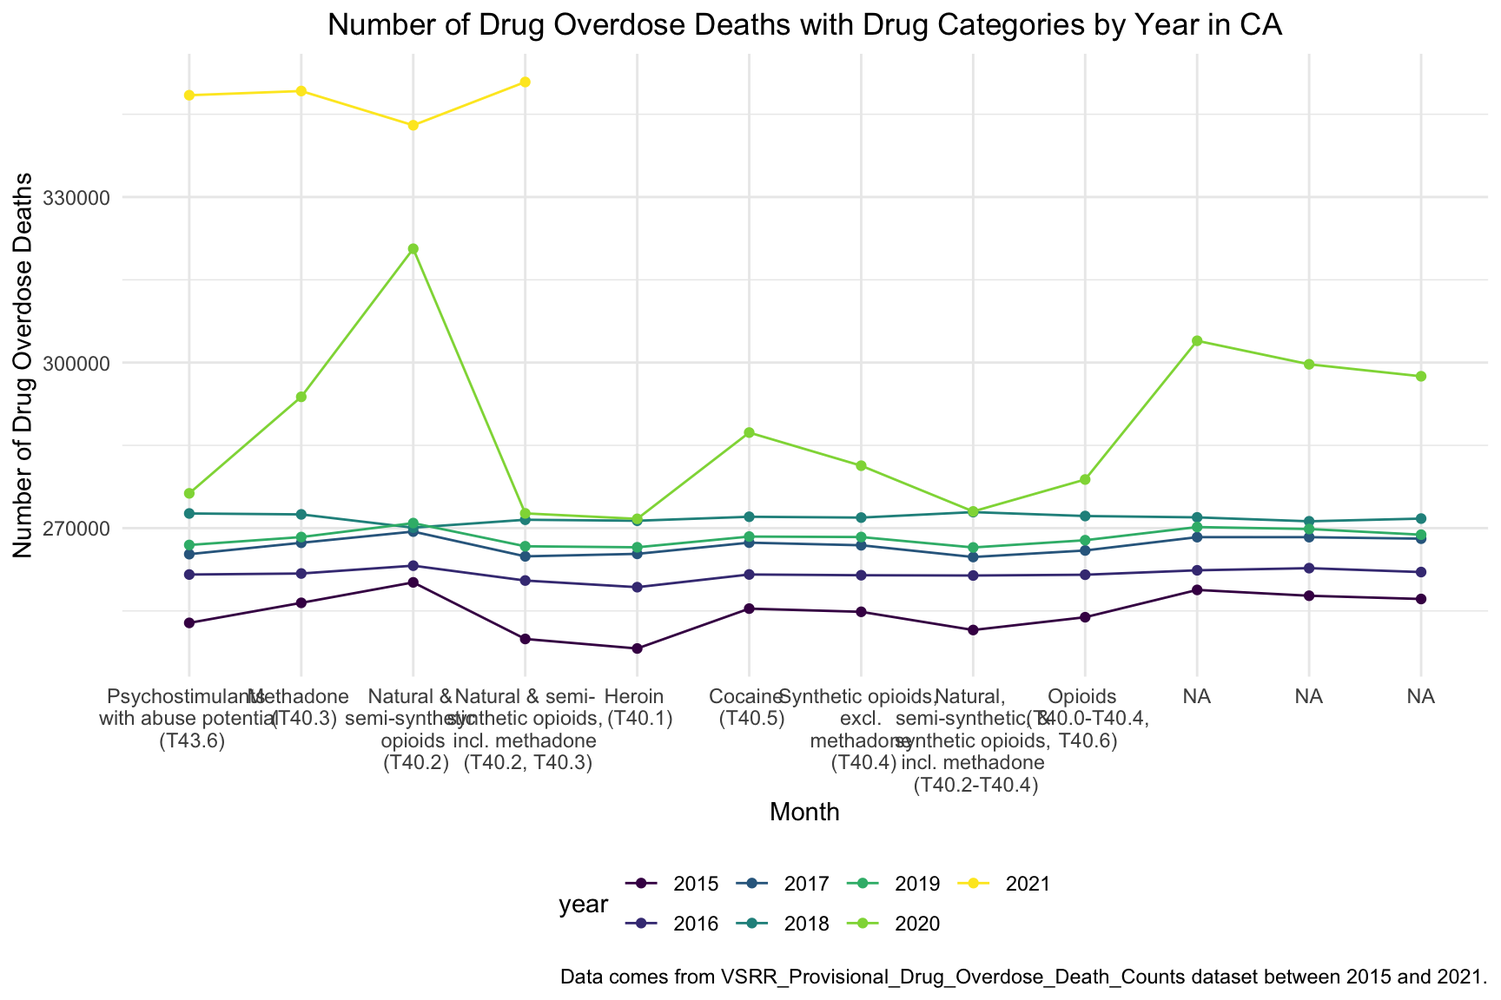
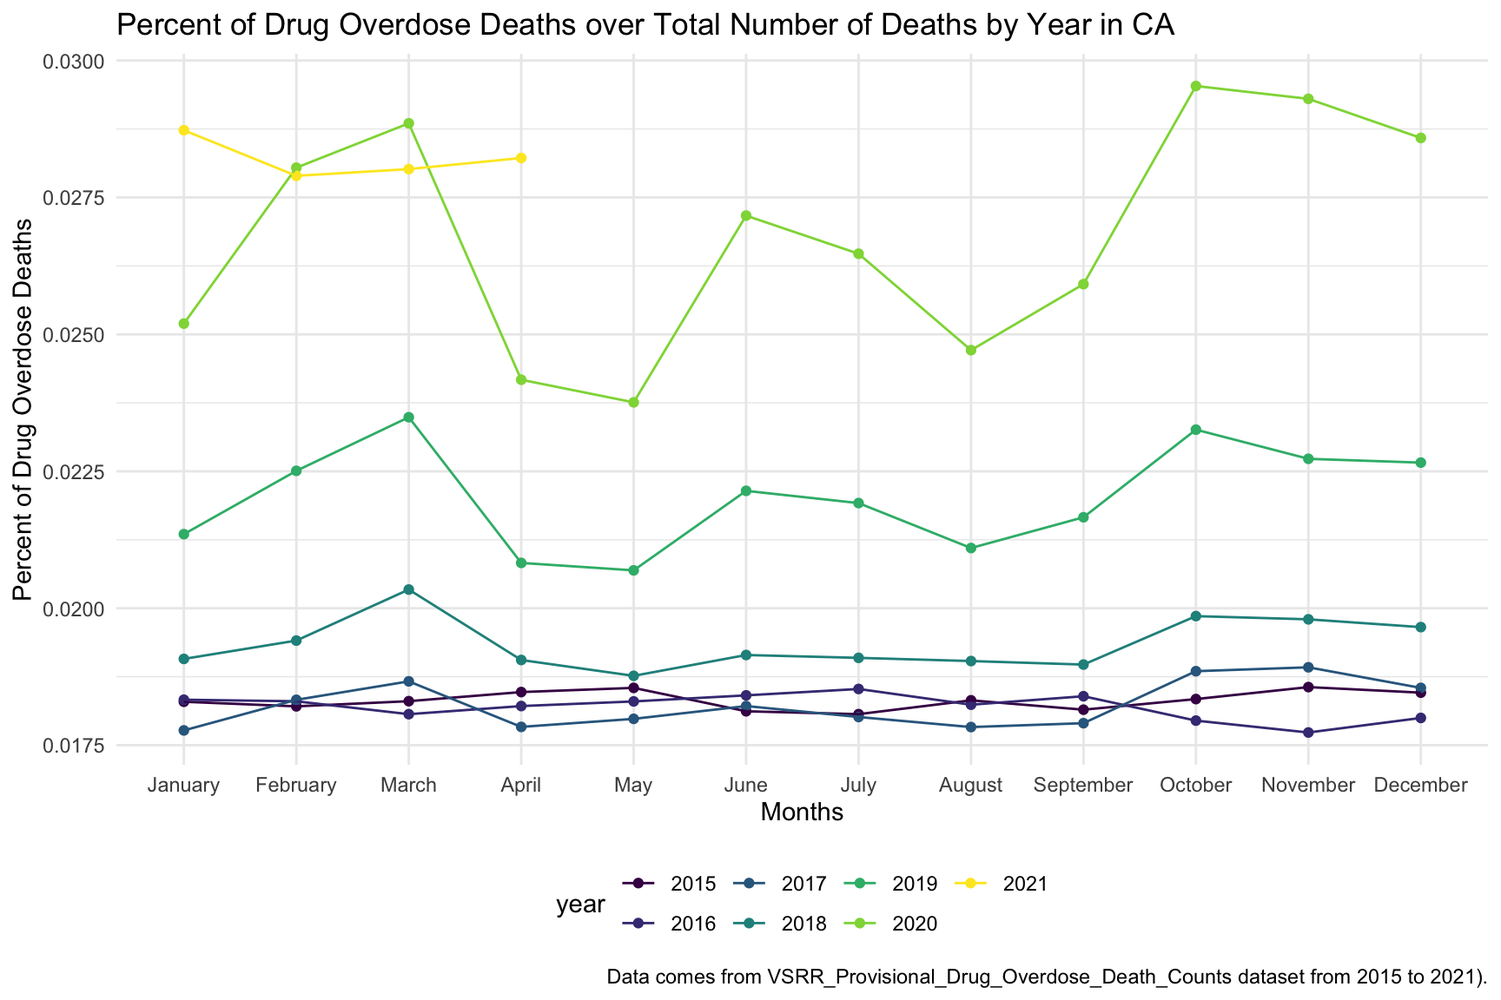
changing by year graph to percentage death and add interpertation

diff --git a/CA_data_analyzing.html b/CA_data_analyzing.html
@@ -13,8 +13,8 @@
 
 <title>CA data Analyzing</title>
 
-<script src="site_libs/header-attrs-2.11/header-attrs.js"></script>
-<script src="site_libs/jquery-3.6.0/jquery-3.6.0.min.js"></script>
+<script src="site_libs/header-attrs-2.10/header-attrs.js"></script>
+<script src="site_libs/jquery-3.5.1/jquery.min.js"></script>
 <meta name="viewport" content="width=device-width, initial-scale=1" />
 <link href="site_libs/bootstrap-3.3.5/css/yeti.min.css" rel="stylesheet" />
 <script src="site_libs/bootstrap-3.3.5/js/bootstrap.min.js"></script>
@@ -415,18 +415,7 @@ div.tocify {
 </div>
 
 
-<p><strong>Import the libraries</strong></p>
-<pre class="r"><code>library(tidyverse)
-library(rvest)
-library(httr)
-library(viridis)
-library(plotly)
-library(dplyr)
-library(readr)
-library(maps)
-library(choroplethr)
-library(choroplethrMaps)
-library(patchwork)</code></pre>
+<p><strong>Import the Libraries and Data Cleaning</strong></p>
 <pre class="r"><code>drug_overdose = read_csv(&quot;./data/VSRR_Provisional_Drug_Overdose_Death_Counts.csv&quot;) %&gt;% 
   janitor::clean_names()
 
@@ -453,9 +442,8 @@ drug_categories =
   ungroup() %&gt;% 
   select(-c(state, footnote_symbol, percent_complete, period, percent_pending_investigation, footnote, predicted_value)) %&gt;% 
   filter(str_detect(indicator, &quot;T4&quot;))</code></pre>
-<div id="overall-review" class="section level3">
-<h3>Overall review:</h3>
-<p><strong>Drug Overdose Deaths with Drug Categories</strong></p>
+<div id="by-drug-type" class="section level2">
+<h2>By Drug Type</h2>
 <pre class="r"><code>CA_death = 
   drug_overdose_52 %&gt;% 
   filter(state_name %in% &quot;California&quot;,
@@ -476,7 +464,7 @@ CA_df =
   drug_categories %&gt;% 
   filter(state_name %in% c(&quot;California&quot;))
 ggplot(CA_df, aes(indicator, data_value))+ 
-  geom_boxplot() +
+  geom_boxplot(aes(fill = indicator), alpha = 0.5) +
   scale_x_discrete(labels = c(&quot;Psychostimulants \n with abuse potential \n (T43.6)&quot;, &quot;Methadone \n (T40.3)&quot;, &quot;Natural &amp; \n semi-synthetic  \n opioids \n (T40.2)&quot;, &quot;Natural &amp; semi-\n synthetic opioids, \n incl. methadone \n (T40.2, T40.3)&quot;, &quot;Heroin \n (T40.1)&quot;, &quot;Cocaine \n (T40.5)&quot;, &quot;Synthetic opioids, \n excl. \n methadone \n (T40.4)&quot;, &quot;Natural, \n semi-synthetic, &amp; \n synthetic opioids, \n incl. methadone \n (T40.2-T40.4)&quot;, &quot;Opioids \n (T40.0-T40.4,\n T40.6)&quot;)) +
   guides(fill = guide_legend(nrow = 6, byrow = TRUE)) +
   labs(
@@ -486,27 +474,39 @@ ggplot(CA_df, aes(indicator, data_value))+
     caption = &quot;Data comes from VSRR_Provisional_Drug_Overdose_Death_Counts dataset.&quot;
   ) </code></pre>
 <p><img src="CA_data_analyzing_files/figure-html/unnamed-chunk-3-1.png" width="90%" /></p>
-<p><strong>Drug Overdose Deaths with Drug Categories by Year</strong></p>
+<p>From this graph we can see that highest drug overdose death is caused by Synthetic opioids,methadone (T40.4). The following Drug Categories cause high overdose death are Cocaine and semi-synthetic opioids.</p>
+</div>
+<div id="by-year" class="section level2">
+<h2>By Year</h2>
 <pre class="r"><code>death_by_year = 
-  drug_overdose_death %&gt;% 
-  filter(state_name %in% c(&quot;California&quot;), 
-         indicator %in% c(&quot;Number of Deaths&quot;) )
+  drug_overdose_52 %&gt;% 
+  filter(state_name %in% c(&quot;California&quot;)) %&gt;% 
+  ungroup() %&gt;% 
+  select(year, month, indicator, data_value) %&gt;% 
+  filter(indicator %in% c(&quot;Number of Deaths&quot;, &quot;Number of Drug Overdose Deaths&quot;)) %&gt;% 
+  pivot_wider(
+    names_from = indicator,
+    values_from = data_value
+  ) %&gt;% 
+  janitor::clean_names() %&gt;% 
+  group_by(year, month) %&gt;% 
+  mutate(
+    percent_overdose_death = number_of_drug_overdose_deaths / number_of_deaths
+  )
 
-ggplot(death_by_year, aes(x = month, y = data_value, group = year, color = year)) +
-    labs(title = &quot;&quot;) + 
-    geom_line() + 
-    geom_point() +
-    theme(plot.title = element_text(hjust = 0.5)) +
-    scale_x_discrete(labels = c(&quot;Psychostimulants \n with abuse potential \n (T43.6)&quot;, &quot;Methadone \n (T40.3)&quot;, &quot;Natural &amp; \n semi-synthetic  \n opioids \n (T40.2)&quot;, &quot;Natural &amp; semi-\n synthetic opioids, \n incl. methadone \n (T40.2, T40.3)&quot;, &quot;Heroin \n (T40.1)&quot;, &quot;Cocaine \n (T40.5)&quot;, &quot;Synthetic opioids, \n excl. \n methadone \n (T40.4)&quot;, &quot;Natural, \n semi-synthetic, &amp; \n synthetic opioids, \n incl. methadone \n (T40.2-T40.4)&quot;, &quot;Opioids \n (T40.0-T40.4,\n T40.6)&quot;)) +
-  guides(fill = guide_legend(nrow = 6, byrow = TRUE)) +
-    labs(
-      title = &quot;Number of Drug Overdose Deaths with Drug Categories by Year in CA&quot;,
-      x = &quot;Month&quot;,
-      y = &quot;Number of Drug Overdose Deaths&quot;,
-    caption = &quot;Data comes from VSRR_Provisional_Drug_Overdose_Death_Counts dataset between 2015 and 2021.&quot;
+death_by_year %&gt;%
+  ungroup() %&gt;% 
+  ggplot(aes(x = month, y = percent_overdose_death, color = year)) +
+  geom_point() +
+  geom_line(aes(group = year)) +
+  labs(
+    title = &quot;Percent of Drug Overdose Deaths over Total Number of Deaths by Year in CA&quot;,
+    x = &quot;Months&quot;,
+    y = &quot;Percent of Drug Overdose Deaths&quot;,
+    caption = &quot;Data comes from VSRR_Provisional_Drug_Overdose_Death_Counts dataset from 2015 to 2021).&quot;
   )</code></pre>
-<p><img src="CA_data_analyzing_files/figure-html/unnamed-chunk-4-1.png" width="90%" /></p>
-<p><strong>Each month Death Within a Year</strong></p>
+<p><img src="CA_data_analyzing_files/figure-html/unnamed-chunk-4-1.png" width="100%" /></p>
+<p>In the graph of Drug Overdose Deaths with Drug Categories by Year, I can observe that year 2020 have higher number of drug overdose death than other years, which can be cause by covid-19 and self-isolation.</p>
 <pre class="r"><code>death_by_year = 
   drug_overdose_death %&gt;% 
   filter(state_name %in% c(&quot;California&quot;), 
@@ -519,26 +519,30 @@ ggplot(death_by_year, aes(x = month, y = data_value, group = year, color = year)
     facet_grid(.~year) +
   
     labs(
-      title = &quot;Number of Drug Overdose Deaths with Drug Categories by Year in CA&quot;,
+      title = &quot;Percent of Number of Drug Overdose Deaths with Drug Categories by Year in CA&quot;,
       x = &quot;Month&quot;,
-      y = &quot;Number of Drug Overdose Deaths&quot;,
+      y = &quot;Percent of Drug Overdose Deaths&quot;,
     caption = &quot;Data comes from VSRR_Provisional_Drug_Overdose_Death_Counts dataset between 2015 and 2021.&quot;
   ) +
     theme(axis.text.x = element_text(angle = 90, hjust = 1)) </code></pre>
 <p><img src="CA_data_analyzing_files/figure-html/unnamed-chunk-5-1.png" width="90%" /></p>
+<p>In the graph of Each month Drug Overdose Death Within a Year, we are able to see the increasing trend of drug overdose in continuous years. Cause by the COVID-19, there is large increase in number of drug overdose death.</p>
+</div>
+<div id="drug-year" class="section level2">
+<h2>Drug ~ Year</h2>
 <pre class="r"><code>CA_df %&gt;%
   filter(year %in% (2019:2021))  %&gt;%
   ggplot(aes(x = year, y = data_value, color = indicator)) +
   geom_smooth(aes(group = indicator), se = FALSE) +
-  scale_color_viridis(discrete = TRUE, labels = c(&quot;Psychostimulants with abuse potential (T43.6)&quot;, &quot;Methadone (T40.3)&quot;, &quot;Natural &amp; semi-synthetic opioids (T40.2)&quot;, &quot;Natural &amp; semi-synthetic opioids, incl. methadone (T40.2, T40.3)&quot;, &quot;Heroin (T40.1)&quot;, &quot;Cocaine (T40.5)&quot;, &quot;Synthetic opioids, excl. methadone (T40.4)&quot;, &quot;Natural, semi-synthetic, &amp; synthetic opioids, incl. methadone (T40.2-T40.4)&quot;, &quot;Opioids (T40.0-T40.4,T40.6)&quot;)) +
   guides(color = guide_legend(nrow = 6, byrow = TRUE)) +
   labs(
-    title = &quot;Number of Drug Overdose Deaths with Drug Categories by Year in CA&quot;,
+    title = &quot;Number of Drug Overdose Deaths by Year in CA&quot;,
     x = &quot;Year&quot;,
     y = &quot;Number of Drug Overdose Deaths&quot;,
-    caption = &quot;Data comes from VSRR_Provisional_Drug_Overdose_Death_Counts dataset between 2015 and 2021.&quot;
+    caption = &quot;Data comes from VSRR_Provisional_Drug_Overdose_Death_Counts dataset between 2019 and 2021.&quot;
   )</code></pre>
 <p><img src="CA_data_analyzing_files/figure-html/unnamed-chunk-6-1.png" width="90%" /></p>
+<p>In the graph of Number of Drug Overdose Deaths with Drug Categories by Year, we can see that drug overdose death keep increasing over the years with almost all type of drug. Since we miss data from 2015-2018, so we just include 2019-2021 in this graph.</p>
 <p><strong>Overdose death by age</strong></p>
 <pre class="r"><code>ca_death_by_age = 
   read_csv(&quot;./data/agegroup_race_state_year_99-19.csv&quot;) %&gt;%
@@ -552,9 +556,12 @@ ca_death_by_age %&gt;%
   mutate(ten_year_age_groups = gsub(&quot;years&quot;, &quot;&quot;, ten_year_age_groups)) %&gt;% 
   ggplot(aes(x = ten_year_age_groups , y = crude_rate, fill = race)) + 
   geom_boxplot(alpha = 0.5)+
-  facet_grid(~race)+
+  facet_grid(~race) +
+  labs(
+    title = &quot;Number of Drug Overdose Deaths with Drug Categories by Age and Race in CA&quot;)  +
   theme(axis.text.x = element_text(angle = 90, vjust = 0.4, hjust = 1))</code></pre>
 <p><img src="CA_data_analyzing_files/figure-html/unnamed-chunk-7-1.png" width="90%" /></p>
+<p>Overdose death with Drug Categories by Age and Race shows that people among age 55-64 across all races have highest death rate. Black or African Americans have highest death rate among all races.</p>
 </div>
 <div id="income" class="section level2">
 <h2>Income</h2>
@@ -577,8 +584,9 @@ CA_income_df %&gt;%
     title = &quot;Median Household Income: CA vs. The U.S&quot;,
          xaxis = list(title = &quot;Year&quot;),
          yaxis = list(title = &quot;Median Household Income&quot;))</code></pre>
-<div id="htmlwidget-b78295737801767cc402" style="width:90%;height:576px;" class="plotly html-widget"></div>
-<script type="application/json" data-for="htmlwidget-b78295737801767cc402">{"x":{"visdat":{"83527259177c":["function () ","plotlyVisDat"]},"cur_data":"83527259177c","attrs":{"83527259177c":{"x":{},"y":{},"text":{},"mode":"markers+lines","error_y":{},"color":{},"colors":"viridis","alpha":0.5,"alpha_stroke":1,"sizes":[10,100],"spans":[1,20],"type":"scatter"}},"layout":{"margin":{"b":40,"l":60,"t":25,"r":10},"title":"Median Household Income: CA vs. The U.S","xaxis":{"domain":[0,1],"automargin":true,"title":"Year","type":"category","categoryorder":"array","categoryarray":["2015","2016","2017","2018","2019"]},"yaxis":{"domain":[0,1],"automargin":true,"title":"Median Household Income"},"hovermode":"closest","showlegend":true},"source":"A","config":{"modeBarButtonsToAdd":["hoverclosest","hovercompare"],"showSendToCloud":false},"data":[{"x":["2019","2018","2017","2016","2015"],"y":[80440,75277,71805,67739,64500],"text":["Year: 2019<br />Median Household Income: $80440<br />Margin of error: ± $313","Year: 2018<br />Median Household Income: $75277<br />Margin of error: ± $317","Year: 2017<br />Median Household Income: $71805<br />Margin of error: ± $294","Year: 2016<br />Median Household Income: $67739<br />Margin of error: ± $356","Year: 2015<br />Median Household Income: $64500<br />Margin of error: ± $395"],"mode":"markers+lines","error_y":{"color":"rgba(68,1,84,0.5)","array":[118,313,850,1028,1908]},"type":"scatter","name":"California","marker":{"color":"rgba(68,1,84,0.5)","line":{"color":"rgba(68,1,84,1)"}},"textfont":{"color":"rgba(68,1,84,0.5)"},"error_x":{"color":"rgba(68,1,84,0.5)"},"line":{"color":"rgba(68,1,84,0.5)"},"xaxis":"x","yaxis":"y","frame":null},{"x":["2019","2018","2017","2016","2015"],"y":[77774,72563,69992,65950,62544],"text":["Year: 2019<br />Median Household Income: $77774<br />Margin of error: ± $850","Year: 2018<br />Median Household Income: $72563<br />Margin of error: ± $671","Year: 2017<br />Median Household Income: $69992<br />Margin of error: ± $679","Year: 2016<br />Median Household Income: $65950<br />Margin of error: ± $495","Year: 2015<br />Median Household Income: $62544<br />Margin of error: ± $556"],"mode":"markers+lines","error_y":{"color":"rgba(65,68,135,0.5)","array":[1965,94,317,671,906]},"type":"scatter","name":"Los Angeles-Long Beach-Anaheim, CA","marker":{"color":"rgba(65,68,135,0.5)","line":{"color":"rgba(65,68,135,1)"}},"textfont":{"color":"rgba(65,68,135,0.5)"},"error_x":{"color":"rgba(65,68,135,0.5)"},"line":{"color":"rgba(65,68,135,0.5)"},"xaxis":"x","yaxis":"y","frame":null},{"x":["2019","2018","2017","2016","2015"],"y":[70954,65671,61994,58236,56087],"text":["Year: 2019<br />Median Household Income: $70954<br />Margin of error: ± $1028","Year: 2018<br />Median Household Income: $65671<br />Margin of error: ± $906","Year: 2017<br />Median Household Income: $61994<br />Margin of error: ± $688","Year: 2016<br />Median Household Income: $58236<br />Margin of error: ± $1104","Year: 2015<br />Median Household Income: $56087<br />Margin of error: ± $983"],"mode":"markers+lines","error_y":{"color":"rgba(42,120,142,0.5)","array":[1474,1779,86,294,679]},"type":"scatter","name":"Riverside-San Bernardino-Ontario, CA","marker":{"color":"rgba(42,120,142,0.5)","line":{"color":"rgba(42,120,142,1)"}},"textfont":{"color":"rgba(42,120,142,0.5)"},"error_x":{"color":"rgba(42,120,142,0.5)"},"line":{"color":"rgba(42,120,142,0.5)"},"xaxis":"x","yaxis":"y","frame":null},{"x":["2019","2018","2017","2016","2015"],"y":[83985,79079,76207,70824,67320],"text":["Year: 2019<br />Median Household Income: $83985<br />Margin of error: ± $1908","Year: 2018<br />Median Household Income: $79079<br />Margin of error: ± $1474","Year: 2017<br />Median Household Income: $76207<br />Margin of error: ± $1049","Year: 2016<br />Median Household Income: $70824<br />Margin of error: ± $995","Year: 2015<br />Median Household Income: $67320<br />Margin of error: ± $1448"],"mode":"markers+lines","error_y":{"color":"rgba(34,168,132,0.5)","array":[688,1049,833,115,356]},"type":"scatter","name":"San Diego-Carlsbad, CA","marker":{"color":"rgba(34,168,132,0.5)","line":{"color":"rgba(34,168,132,1)"}},"textfont":{"color":"rgba(34,168,132,0.5)"},"error_x":{"color":"rgba(34,168,132,0.5)"},"line":{"color":"rgba(34,168,132,0.5)"},"xaxis":"x","yaxis":"y","frame":null},{"x":["2019","2018","2017","2016","2015"],"y":[114696,107898,101714,96677,88518],"text":["Year: 2019<br />Median Household Income: $114696<br />Margin of error: ± $1965","Year: 2018<br />Median Household Income: $107898<br />Margin of error: ± $1779","Year: 2017<br />Median Household Income: $101714<br />Margin of error: ± $833","Year: 2016<br />Median Household Income: $96677<br />Margin of error: ± $1273","Year: 2015<br />Median Household Income: $88518<br />Margin of error: ± $1665"],"mode":"markers+lines","error_y":{"color":"rgba(122,209,81,0.5)","array":[495,1104,995,1273,85]},"type":"scatter","name":"San Francisco-Oakland-Hayward, CA","marker":{"color":"rgba(122,209,81,0.5)","line":{"color":"rgba(122,209,81,1)"}},"textfont":{"color":"rgba(122,209,81,0.5)"},"error_x":{"color":"rgba(122,209,81,0.5)"},"line":{"color":"rgba(122,209,81,0.5)"},"xaxis":"x","yaxis":"y","frame":null},{"x":["2019","2018","2017","2016","2015"],"y":[65712,61937,60336,57617,55775],"text":["Year: 2019<br />Median Household Income: $65712<br />Margin of error: ± $118","Year: 2018<br />Median Household Income: $61937<br />Margin of error: ± $94","Year: 2017<br />Median Household Income: $60336<br />Margin of error: ± $86","Year: 2016<br />Median Household Income: $57617<br />Margin of error: ± $115","Year: 2015<br />Median Household Income: $55775<br />Margin of error: ± $85"],"mode":"markers+lines","error_y":{"color":"rgba(253,231,37,0.5)","array":[395,556,983,1448,1665]},"type":"scatter","name":"United States","marker":{"color":"rgba(253,231,37,0.5)","line":{"color":"rgba(253,231,37,1)"}},"textfont":{"color":"rgba(253,231,37,0.5)"},"error_x":{"color":"rgba(253,231,37,0.5)"},"line":{"color":"rgba(253,231,37,0.5)"},"xaxis":"x","yaxis":"y","frame":null}],"highlight":{"on":"plotly_click","persistent":false,"dynamic":false,"selectize":false,"opacityDim":0.2,"selected":{"opacity":1},"debounce":0},"shinyEvents":["plotly_hover","plotly_click","plotly_selected","plotly_relayout","plotly_brushed","plotly_brushing","plotly_clickannotation","plotly_doubleclick","plotly_deselect","plotly_afterplot","plotly_sunburstclick"],"base_url":"https://plot.ly"},"evals":[],"jsHooks":[]}</script>
+<div id="htmlwidget-edf3e80df5c1952e3d23" style="width:90%;height:576px;" class="plotly html-widget"></div>
+<script type="application/json" data-for="htmlwidget-edf3e80df5c1952e3d23">{"x":{"visdat":{"f243ca31a7b":["function () ","plotlyVisDat"]},"cur_data":"f243ca31a7b","attrs":{"f243ca31a7b":{"x":{},"y":{},"text":{},"mode":"markers+lines","error_y":{},"color":{},"colors":"viridis","alpha":0.5,"alpha_stroke":1,"sizes":[10,100],"spans":[1,20],"type":"scatter"}},"layout":{"margin":{"b":40,"l":60,"t":25,"r":10},"title":"Median Household Income: CA vs. The U.S","xaxis":{"domain":[0,1],"automargin":true,"title":"Year","type":"category","categoryorder":"array","categoryarray":["2015","2016","2017","2018","2019"]},"yaxis":{"domain":[0,1],"automargin":true,"title":"Median Household Income"},"hovermode":"closest","showlegend":true},"source":"A","config":{"modeBarButtonsToAdd":["hoverclosest","hovercompare"],"showSendToCloud":false},"data":[{"x":["2019","2018","2017","2016","2015"],"y":[80440,75277,71805,67739,64500],"text":["Year: 2019<br />Median Household Income: $80440<br />Margin of error: ± $313","Year: 2018<br />Median Household Income: $75277<br />Margin of error: ± $317","Year: 2017<br />Median Household Income: $71805<br />Margin of error: ± $294","Year: 2016<br />Median Household Income: $67739<br />Margin of error: ± $356","Year: 2015<br />Median Household Income: $64500<br />Margin of error: ± $395"],"mode":"markers+lines","error_y":{"color":"rgba(68,1,84,0.5)","array":[118,313,850,1028,1908]},"type":"scatter","name":"California","marker":{"color":"rgba(68,1,84,0.5)","line":{"color":"rgba(68,1,84,1)"}},"textfont":{"color":"rgba(68,1,84,0.5)"},"error_x":{"color":"rgba(68,1,84,0.5)"},"line":{"color":"rgba(68,1,84,0.5)"},"xaxis":"x","yaxis":"y","frame":null},{"x":["2019","2018","2017","2016","2015"],"y":[77774,72563,69992,65950,62544],"text":["Year: 2019<br />Median Household Income: $77774<br />Margin of error: ± $850","Year: 2018<br />Median Household Income: $72563<br />Margin of error: ± $671","Year: 2017<br />Median Household Income: $69992<br />Margin of error: ± $679","Year: 2016<br />Median Household Income: $65950<br />Margin of error: ± $495","Year: 2015<br />Median Household Income: $62544<br />Margin of error: ± $556"],"mode":"markers+lines","error_y":{"color":"rgba(65,68,135,0.5)","array":[1965,94,317,671,906]},"type":"scatter","name":"Los Angeles-Long Beach-Anaheim, CA","marker":{"color":"rgba(65,68,135,0.5)","line":{"color":"rgba(65,68,135,1)"}},"textfont":{"color":"rgba(65,68,135,0.5)"},"error_x":{"color":"rgba(65,68,135,0.5)"},"line":{"color":"rgba(65,68,135,0.5)"},"xaxis":"x","yaxis":"y","frame":null},{"x":["2019","2018","2017","2016","2015"],"y":[70954,65671,61994,58236,56087],"text":["Year: 2019<br />Median Household Income: $70954<br />Margin of error: ± $1028","Year: 2018<br />Median Household Income: $65671<br />Margin of error: ± $906","Year: 2017<br />Median Household Income: $61994<br />Margin of error: ± $688","Year: 2016<br />Median Household Income: $58236<br />Margin of error: ± $1104","Year: 2015<br />Median Household Income: $56087<br />Margin of error: ± $983"],"mode":"markers+lines","error_y":{"color":"rgba(42,120,142,0.5)","array":[1474,1779,86,294,679]},"type":"scatter","name":"Riverside-San Bernardino-Ontario, CA","marker":{"color":"rgba(42,120,142,0.5)","line":{"color":"rgba(42,120,142,1)"}},"textfont":{"color":"rgba(42,120,142,0.5)"},"error_x":{"color":"rgba(42,120,142,0.5)"},"line":{"color":"rgba(42,120,142,0.5)"},"xaxis":"x","yaxis":"y","frame":null},{"x":["2019","2018","2017","2016","2015"],"y":[83985,79079,76207,70824,67320],"text":["Year: 2019<br />Median Household Income: $83985<br />Margin of error: ± $1908","Year: 2018<br />Median Household Income: $79079<br />Margin of error: ± $1474","Year: 2017<br />Median Household Income: $76207<br />Margin of error: ± $1049","Year: 2016<br />Median Household Income: $70824<br />Margin of error: ± $995","Year: 2015<br />Median Household Income: $67320<br />Margin of error: ± $1448"],"mode":"markers+lines","error_y":{"color":"rgba(34,168,132,0.5)","array":[688,1049,833,115,356]},"type":"scatter","name":"San Diego-Carlsbad, CA","marker":{"color":"rgba(34,168,132,0.5)","line":{"color":"rgba(34,168,132,1)"}},"textfont":{"color":"rgba(34,168,132,0.5)"},"error_x":{"color":"rgba(34,168,132,0.5)"},"line":{"color":"rgba(34,168,132,0.5)"},"xaxis":"x","yaxis":"y","frame":null},{"x":["2019","2018","2017","2016","2015"],"y":[114696,107898,101714,96677,88518],"text":["Year: 2019<br />Median Household Income: $114696<br />Margin of error: ± $1965","Year: 2018<br />Median Household Income: $107898<br />Margin of error: ± $1779","Year: 2017<br />Median Household Income: $101714<br />Margin of error: ± $833","Year: 2016<br />Median Household Income: $96677<br />Margin of error: ± $1273","Year: 2015<br />Median Household Income: $88518<br />Margin of error: ± $1665"],"mode":"markers+lines","error_y":{"color":"rgba(122,209,81,0.5)","array":[495,1104,995,1273,85]},"type":"scatter","name":"San Francisco-Oakland-Hayward, CA","marker":{"color":"rgba(122,209,81,0.5)","line":{"color":"rgba(122,209,81,1)"}},"textfont":{"color":"rgba(122,209,81,0.5)"},"error_x":{"color":"rgba(122,209,81,0.5)"},"line":{"color":"rgba(122,209,81,0.5)"},"xaxis":"x","yaxis":"y","frame":null},{"x":["2019","2018","2017","2016","2015"],"y":[65712,61937,60336,57617,55775],"text":["Year: 2019<br />Median Household Income: $65712<br />Margin of error: ± $118","Year: 2018<br />Median Household Income: $61937<br />Margin of error: ± $94","Year: 2017<br />Median Household Income: $60336<br />Margin of error: ± $86","Year: 2016<br />Median Household Income: $57617<br />Margin of error: ± $115","Year: 2015<br />Median Household Income: $55775<br />Margin of error: ± $85"],"mode":"markers+lines","error_y":{"color":"rgba(253,231,37,0.5)","array":[395,556,983,1448,1665]},"type":"scatter","name":"United States","marker":{"color":"rgba(253,231,37,0.5)","line":{"color":"rgba(253,231,37,1)"}},"textfont":{"color":"rgba(253,231,37,0.5)"},"error_x":{"color":"rgba(253,231,37,0.5)"},"line":{"color":"rgba(253,231,37,0.5)"},"xaxis":"x","yaxis":"y","frame":null}],"highlight":{"on":"plotly_click","persistent":false,"dynamic":false,"selectize":false,"opacityDim":0.2,"selected":{"opacity":1},"debounce":0},"shinyEvents":["plotly_hover","plotly_click","plotly_selected","plotly_relayout","plotly_brushed","plotly_brushing","plotly_clickannotation","plotly_doubleclick","plotly_deselect","plotly_afterplot","plotly_sunburstclick"],"base_url":"https://plot.ly"},"evals":[],"jsHooks":[]}</script>
+<p>From the graph Median Household Income: CA vs. The U.S, we can see that California have higher median household income then US and northern part of California have highest income compare other parts of California.</p>
 <p><strong>Income and drug overdose death percent by year</strong></p>
 <pre class="r"><code>CAincome_drug_df = 
   CA_death %&gt;% 
@@ -610,6 +618,7 @@ smooth =
   geom_smooth(method = &quot;lm&quot;, se = FALSE, color = &quot;royalblue4&quot;)
 (year_death + income_year)/smooth</code></pre>
 <p><img src="CA_data_analyzing_files/figure-html/unnamed-chunk-9-1.png" width="90%" /></p>
+<p>From graph income VS drug overdose we can find that higher drug overdose rate have association with higher income.</p>
 </div>
 <div id="ca-drug-map" class="section level2">
 <h2>CA Drug Map</h2>
@@ -623,6 +632,7 @@ smooth =
   mutate(year = factor(year),
          county = str_to_lower(county)) %&gt;% 
   relocate(county)</code></pre>
+<p>We can see that the highest death rate occur in north California across the years. From the income graph, north California have the highest income compare to other part of California. So we can find that higher drug overdose rate have association with higher income.</p>
 <div id="counties-change-5-yr-interval" class="section level3 tabset">
 <h3 class="tabset">Counties change, 5-yr interval</h3>
 <div id="section" class="section level4">
